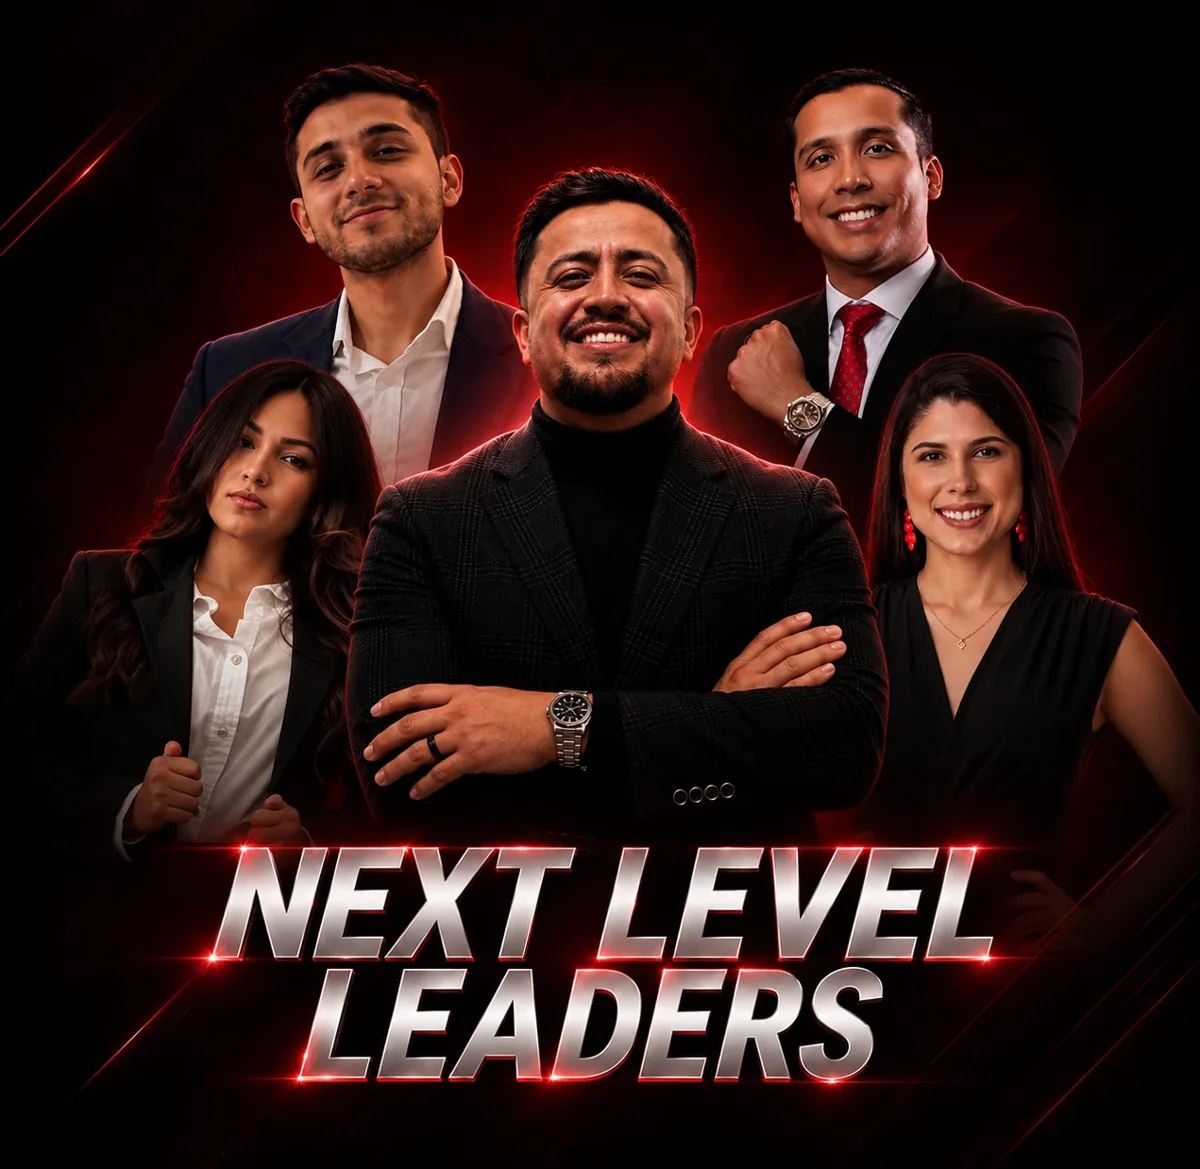
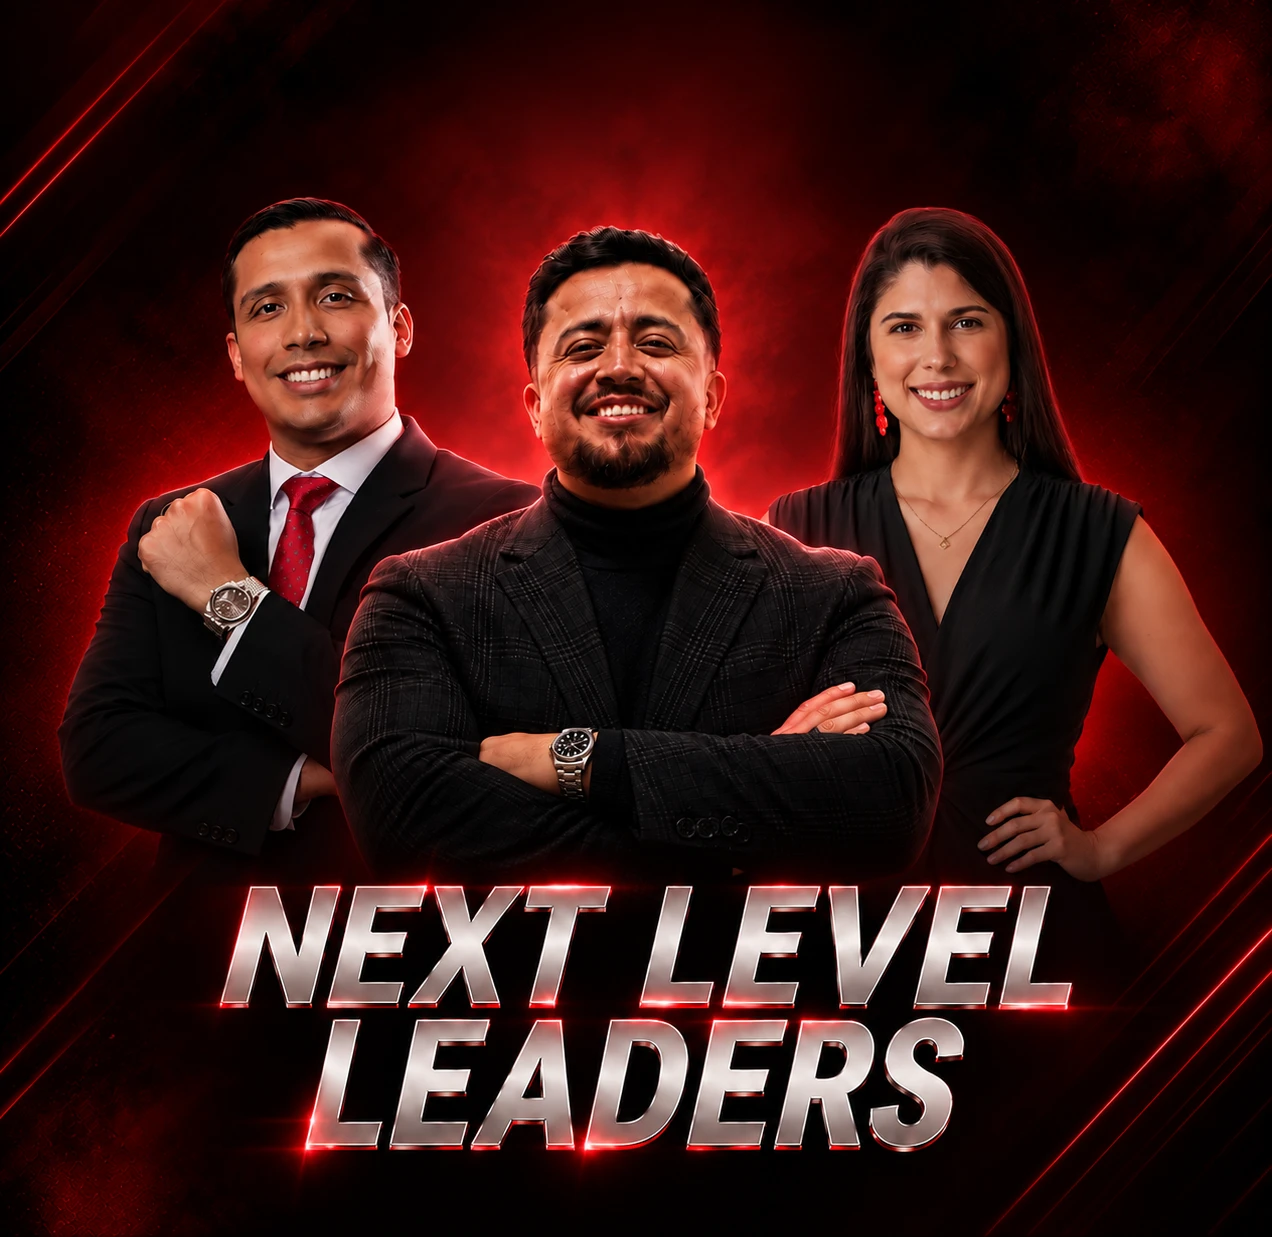
Next Level Leaders: remove Miguel Castellanos, new hero image without him
Claude-Session: https://claude.ai/code/session_01J2ykEEiiQVKnifjSShk6ro

diff --git a/next-level-leaders/index.html b/next-level-leaders/index.html
@@ -9,7 +9,7 @@
 <meta name="author" content="Hugo Pérez">
 <meta property="og:title" content="Next Level Leaders | Liderazgo para empresas de construcción">
 <meta property="og:description" content="Evento presencial gratuito · 24 y 25 de octubre · Los Ángeles, CA · 9:00 AM.">
-<meta property="og:image" content="https://assets.cdn.filesafe.space/4o5wwWKbFhOEOaerWTE6/media/6abfcba9f30b488137b39e79.png">
+<meta property="og:image" content="https://techteamseolvit-cell.github.io/lopez-concrete/next-level-leaders/images/hero-next-level-leaders.webp">
 <link rel="icon" href="images/one-empire-icon-red.png">
 <link rel="preconnect" href="https://fonts.googleapis.com">
 <link rel="preconnect" href="https://fonts.gstatic.com" crossorigin>
@@ -216,7 +216,8 @@
   .xp-more .close em { font-style: normal; color: var(--silver-mid); }
 
   /* ---------- speakers ---------- */
-  .speakers { display: grid; grid-template-columns: repeat(5, 1fr); gap: clamp(12px, 1.6vw, 18px); }
+  .speakers { --cols: 5; --gap: clamp(12px, 1.6vw, 18px); display: flex; flex-wrap: wrap; justify-content: center; gap: var(--gap); max-width: none; margin: 0 auto; }
+  .speakers .speaker { width: calc((100% - (var(--cols) - 1) * var(--gap)) / var(--cols)); }
   .speaker { margin: 0; position: relative; overflow: hidden; background: linear-gradient(180deg, #1c1c21, #0b0b0d); }
   .speaker img { width: 100%; aspect-ratio: 4/5; object-fit: cover; object-position: 50% 12%; transition: transform .5s ease; }
   .speaker:hover img { transform: scale(1.04); }
@@ -309,7 +310,7 @@
     .learn div { text-align: center; }
     .learn div { border-left: 0 !important; border-top: 1px solid var(--line); }
     .learn div:nth-child(even) { border-left: 1px solid var(--line) !important; }
-    .speakers { grid-template-columns: 1fr 1fr; }
+    .speakers { --cols: 2; }
     .speaker figcaption { padding: 30px 12px 12px; }
     .speaker figcaption b { font-size: 16px; }
     .countdown div { min-width: 50px; }
@@ -359,7 +360,7 @@
       </div>
     </div>
     <div class="key-art-col">
-      <div class="key-art"><img src="https://assets.cdn.filesafe.space/4o5wwWKbFhOEOaerWTE6/media/6abfcba9f30b488137b39e79.png" alt="Next Level Leaders con Hugo Pérez y speakers invitados" fetchpriority="high"></div>
+      <div class="key-art"><img src="https://techteamseolvit-cell.github.io/lopez-concrete/next-level-leaders/images/hero-next-level-leaders.webp" alt="Next Level Leaders con Hugo Pérez y speakers invitados" fetchpriority="high"></div>
       <div class="countdown" data-countdown>
         <div><b data-d>--</b><span>Días</span></div><div class="sep">:</div>
         <div><b data-h>--</b><span>Horas</span></div><div class="sep">:</div>
@@ -619,7 +620,6 @@
       <figure class="speaker reveal"><img src="https://images.leadconnectorhq.com/image/f_webp/q_80/r_640/u_https://assets.cdn.filesafe.space/4o5wwWKbFhOEOaerWTE6/media/6a3313a65408771d16550b21.png" alt="Hugo Pérez" loading="lazy"><figcaption><b>Hugo Pérez</b><span>Speaker</span></figcaption></figure>
       <figure class="speaker reveal"><img src="https://images.leadconnectorhq.com/image/f_webp/q_80/r_640/u_https://assets.cdn.filesafe.space/4o5wwWKbFhOEOaerWTE6/media/69db2e3ad7871cddf76f2e78.png" alt="Mónica Tuccella" loading="lazy"><figcaption><b>Mónica Tuccella</b><span>Speaker</span></figcaption></figure>
       <figure class="speaker reveal"><img src="https://images.leadconnectorhq.com/image/f_webp/q_80/r_640/u_https://assets.cdn.filesafe.space/4o5wwWKbFhOEOaerWTE6/media/69db2e3ad7871cddf76f2e7b.png" alt="Darwin Ontiveros" loading="lazy"><figcaption><b>Darwin Ontiveros</b><span>Speaker</span></figcaption></figure>
-      <figure class="speaker reveal"><img src="https://assets.cdn.filesafe.space/4o5wwWKbFhOEOaerWTE6/media/6abfcbb77bca8cd20c3417f7.png" alt="Miguel Castellanos" loading="lazy"><figcaption><b>Miguel Castellanos</b><span>Speaker</span></figcaption></figure>
       <figure class="speaker reveal"><img src="https://images.leadconnectorhq.com/image/f_webp/q_80/r_640/u_https://assets.cdn.filesafe.space/4o5wwWKbFhOEOaerWTE6/media/69f4f5a7bbacf0a056169dc2.png" alt="Idalia Segovia" loading="lazy"><figcaption><b>Idalia Segovia</b><span>Speaker</span></figcaption></figure>
       <figure class="speaker reveal"><img src="https://images.leadconnectorhq.com/image/f_webp/q_80/r_640/u_https://assets.cdn.filesafe.space/4o5wwWKbFhOEOaerWTE6/media/69db2e3a982fd67a3581887f.png" alt="JT Jesús Rojo" loading="lazy"><figcaption><b>JT Jesús Rojo</b><span>Speaker</span></figcaption></figure>
       <figure class="speaker reveal"><img src="https://images.leadconnectorhq.com/image/f_webp/q_80/r_640/u_https://assets.cdn.filesafe.space/4o5wwWKbFhOEOaerWTE6/media/69db2e3a982fd67a35818880.png" alt="Ruben Rojas" loading="lazy"><figcaption><b>Ruben Rojas</b><span>Speaker</span></figcaption></figure>

diff --git a/next-level-leaders/tampa.html b/next-level-leaders/tampa.html
@@ -9,7 +9,7 @@
 <meta name="author" content="Hugo Pérez">
 <meta property="og:title" content="Next Level Leaders | Liderazgo para empresas de construcción">
 <meta property="og:description" content="Evento presencial gratuito · 24 y 25 de octubre · Tampa, FL · 9:00 AM.">
-<meta property="og:image" content="https://assets.cdn.filesafe.space/4o5wwWKbFhOEOaerWTE6/media/6ac2adfe22bc27f58f583a87.png">
+<meta property="og:image" content="https://techteamseolvit-cell.github.io/lopez-concrete/next-level-leaders/images/hero-next-level-leaders.webp">
 <link rel="icon" href="images/one-empire-icon-red.png">
 <link rel="preconnect" href="https://fonts.googleapis.com">
 <link rel="preconnect" href="https://fonts.gstatic.com" crossorigin>
@@ -223,7 +223,8 @@
   .xp-more .close em { font-style: normal; color: var(--silver-mid); }
 
   /* ---------- speakers ---------- */
-  .speakers { display: grid; grid-template-columns: repeat(4, 1fr); max-width: 980px; margin: 0 auto; gap: clamp(12px, 1.6vw, 18px); }
+  .speakers { --cols: 3; --gap: clamp(12px, 1.6vw, 18px); display: flex; flex-wrap: wrap; justify-content: center; gap: var(--gap); max-width: 760px; margin: 0 auto; }
+  .speakers .speaker { width: calc((100% - (var(--cols) - 1) * var(--gap)) / var(--cols)); }
   .speaker { margin: 0; position: relative; overflow: hidden; background: linear-gradient(180deg, #1c1c21, #0b0b0d); }
   .speaker img { width: 100%; aspect-ratio: 4/5; object-fit: cover; object-position: 50% 12%; transition: transform .5s ease; }
   .speaker:hover img { transform: scale(1.04); }
@@ -316,7 +317,7 @@
     .learn div { text-align: center; }
     .learn div { border-left: 0 !important; border-top: 1px solid var(--line); }
     .learn div:nth-child(even) { border-left: 1px solid var(--line) !important; }
-    .speakers { grid-template-columns: 1fr 1fr; }
+    .speakers { --cols: 2; }
     .speaker figcaption { padding: 30px 12px 12px; }
     .speaker figcaption b { font-size: 16px; }
     .countdown div { min-width: 50px; }
@@ -366,7 +367,7 @@
       </div>
     </div>
     <div class="key-art-col">
-      <div class="key-art"><img src="https://assets.cdn.filesafe.space/4o5wwWKbFhOEOaerWTE6/media/6ac2adfe22bc27f58f583a87.png" alt="Next Level Leaders con Hugo Pérez y speakers invitados" fetchpriority="high"></div>
+      <div class="key-art"><img src="https://techteamseolvit-cell.github.io/lopez-concrete/next-level-leaders/images/hero-next-level-leaders.webp" alt="Next Level Leaders con Hugo Pérez y speakers invitados" fetchpriority="high"></div>
       <div class="countdown" data-countdown>
         <div><b data-d>--</b><span>Días</span></div><div class="sep">:</div>
         <div><b data-h>--</b><span>Horas</span></div><div class="sep">:</div>
@@ -636,7 +637,6 @@
       <figure class="speaker reveal"><img src="https://images.leadconnectorhq.com/image/f_webp/q_80/r_640/u_https://assets.cdn.filesafe.space/4o5wwWKbFhOEOaerWTE6/media/6a3313a65408771d16550b21.png" alt="Hugo Pérez" loading="lazy"><figcaption><b>Hugo Pérez</b><span>Speaker</span></figcaption></figure>
       <figure class="speaker reveal"><img src="https://images.leadconnectorhq.com/image/f_webp/q_80/r_640/u_https://assets.cdn.filesafe.space/4o5wwWKbFhOEOaerWTE6/media/69db2e3ad7871cddf76f2e78.png" alt="Mónica Tuccella" loading="lazy"><figcaption><b>Mónica Tuccella</b><span>Speaker</span></figcaption></figure>
       <figure class="speaker reveal"><img src="https://images.leadconnectorhq.com/image/f_webp/q_80/r_640/u_https://assets.cdn.filesafe.space/4o5wwWKbFhOEOaerWTE6/media/69db2e3ad7871cddf76f2e7b.png" alt="Darwin Ontiveros" loading="lazy"><figcaption><b>Darwin Ontiveros</b><span>Speaker</span></figcaption></figure>
-      <figure class="speaker reveal"><img src="https://assets.cdn.filesafe.space/4o5wwWKbFhOEOaerWTE6/media/6abfcbb77bca8cd20c3417f7.png" alt="Miguel Castellanos" loading="lazy"><figcaption><b>Miguel Castellanos</b><span>Speaker</span></figcaption></figure>
     </div>
   </div>
 </section>
